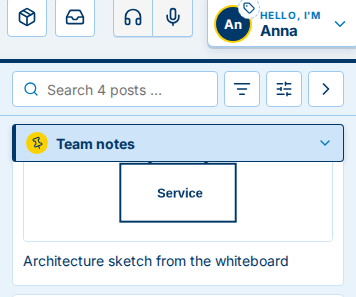
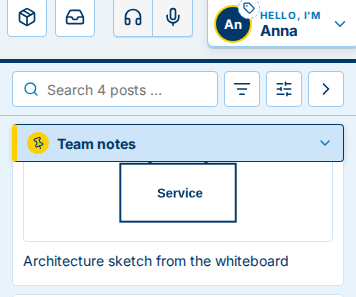
Board: the post kept on top gets the yellow edge of the windows on its left

Changed region(s): [[0.0309, 0.4242, 0.4017, 0.5455]]

diff --git a/web/src/tokens.css b/web/src/tokens.css
@@ -16,7 +16,7 @@
                                   both themes, so the roof's name on it is white */
   --color-ink-soft: #0f4b8c;   /* hover of ink-filled buttons, numbers in code */
   --color-sky: #5aa6e7;        /* icons, focus ring */
-  --color-accent: #fbd200;     /* ONLY: ring around your own avatar, the board graphic's pin and its note for unseen posts, the pin of the post kept on top */
+  --color-accent: #fbd200;     /* ONLY: ring around your own avatar, the board graphic's pin and its note for unseen posts, the left edge and the pin of the post kept on top */
   --color-surface: #f5f5f5;    /* elevator core, hover */
   --color-alert: #c62828;      /* ONLY: recording indicator (AP10), deleting a post, destructive steps of care, keys and maintenance */
 

diff --git a/web/src/lib/ui/board/PinnedBar.svelte b/web/src/lib/ui/board/PinnedBar.svelte
@@ -51,10 +51,10 @@
 </section>
 
 <style>
-  /* stands out from the cards below: a tinted note with a strong frame, lifted a little, and the yellow pin of the
-     board graphic in the room */
+  /* stands out from the cards below: a tinted note with a strong frame, the yellow edge of the windows on its left,
+     lifted a little, and the yellow pin of the board graphic in the room */
   .pinned {
-    margin: 8px 12px 0; border: 1px solid var(--color-ink); border-left-width: 4px; border-radius: var(--radius-md);
+    margin: 8px 12px 0; border: 1px solid var(--color-ink); border-left: 5px solid var(--color-accent); border-radius: var(--radius-md);
     background: var(--color-blue-100); box-shadow: 0 2px 6px rgb(0 0 0 / 0.14);
   }
   .pin {

diff --git a/docs/whats-new/next.md b/docs/whats-new/next.md
@@ -17,6 +17,6 @@ Changes marked ![server update](https://img.shields.io/badge/-server%20update-e6
 
 ![server update](https://img.shields.io/badge/-server%20update-e67e22)
 
-The post kept on top of the board is easy to spot now: it sits on a tinted note with a yellow pin, above all other posts.
+The post kept on top of the board is easy to spot now: it sits on a tinted note with a yellow edge and a yellow pin, above all other posts.
 
 ![The post kept on top of the board](images/next/pinned-post.png)

diff --git a/CHANGELOG.md b/CHANGELOG.md
@@ -8,7 +8,7 @@ All notable changes to Ruumble. The service and the web UI share one version; th
 
 ### Changed
 
-- Board: the post kept on top stands out from the other posts: a tinted note with a strong frame and a slight shadow, and the yellow pin of the board graphic
+- Board: the post kept on top stands out from the other posts: a tinted note with a strong frame, the yellow edge of the windows on its left, a slight shadow and the yellow pin of the board graphic
 
 ## [0.41.0] - 2026-11-08
 
